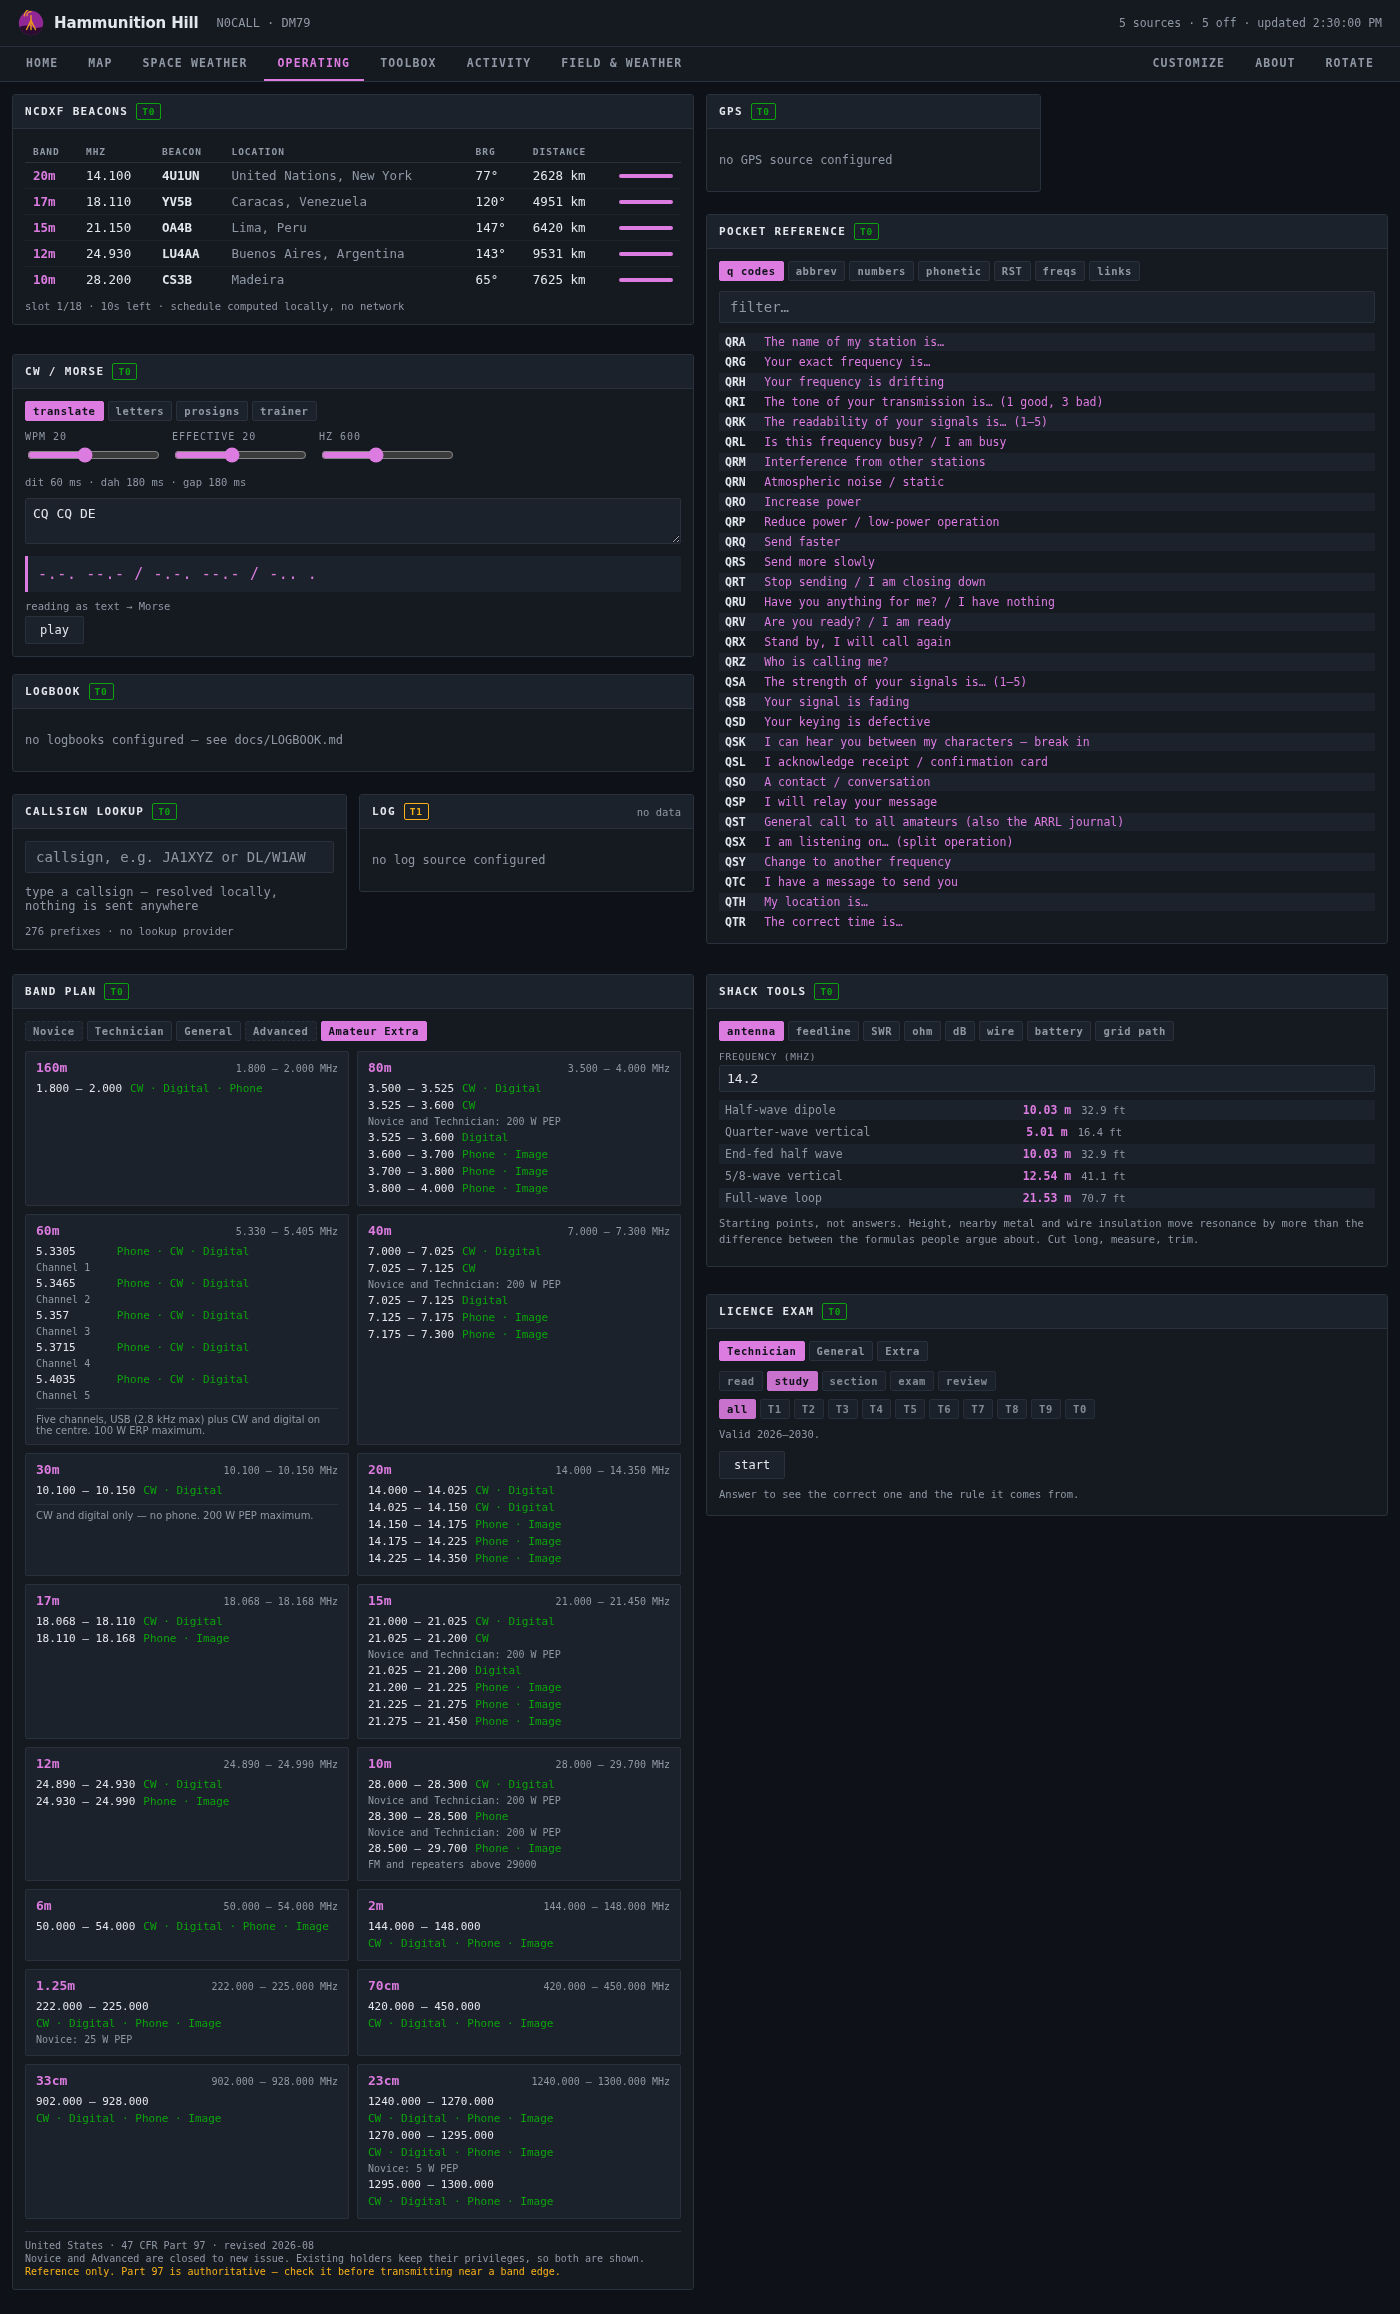
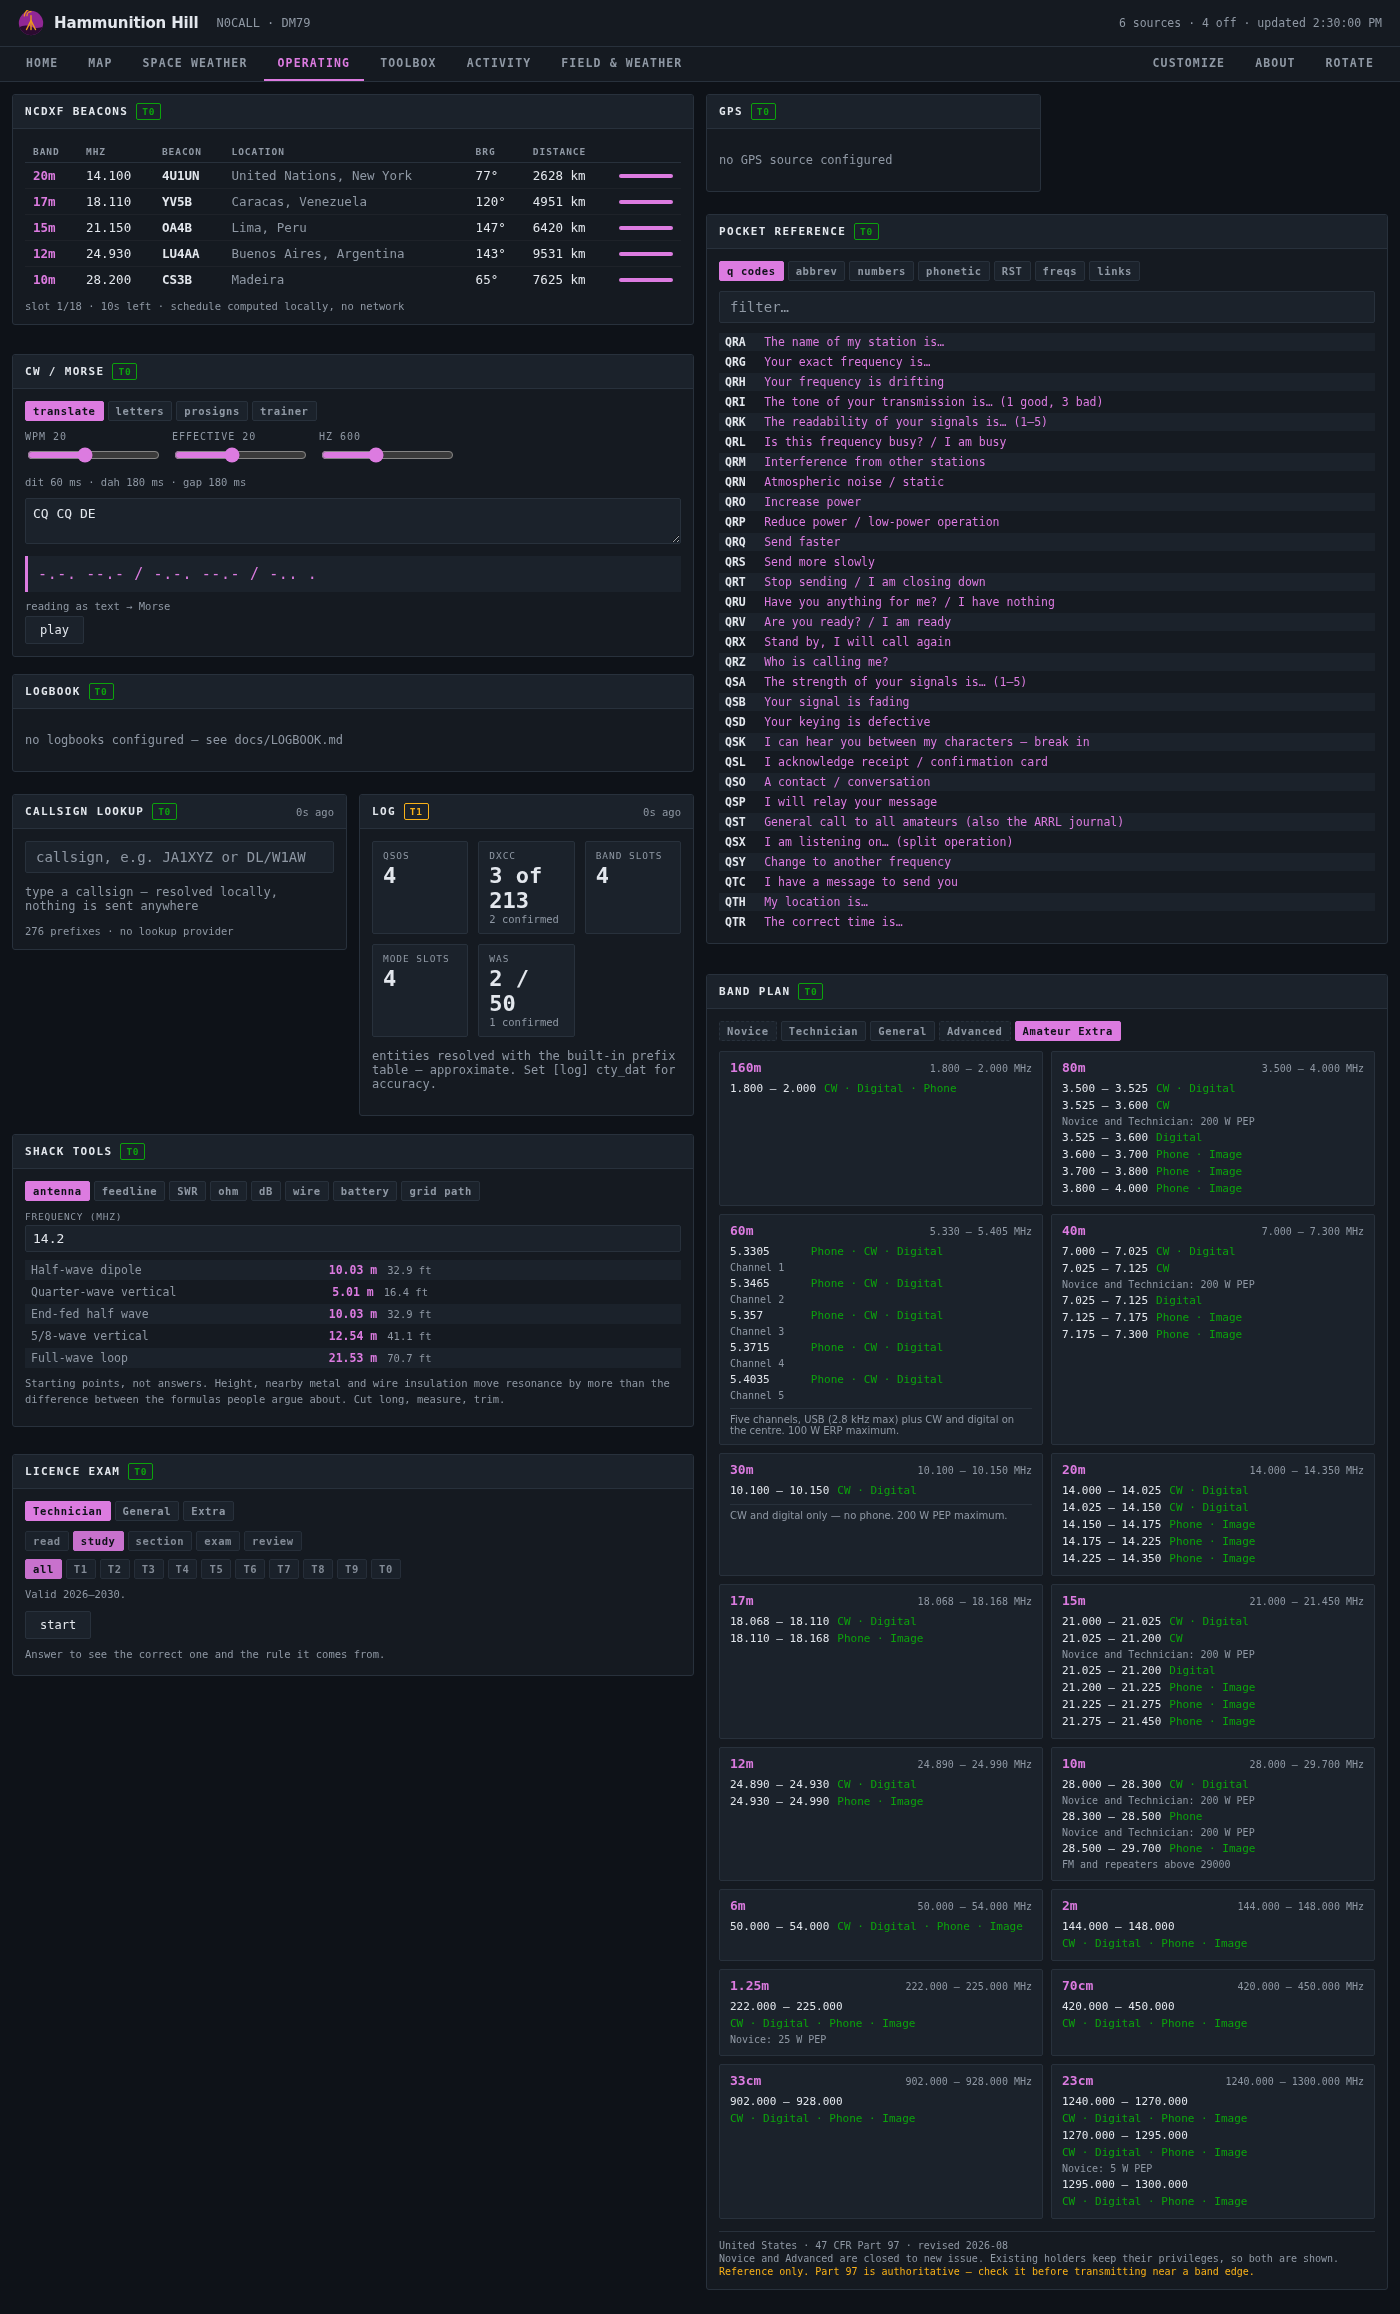
DXCC and WAS progress: the log gets a finish line
The log stats panel counted what was worked and stopped there. Progress
needs a denominator: DXCC now reads "147 of 340", where 340 is however
many entities the ACTIVE prefix table resolves -- published from the
snapshot, not a constant in the panel, so cty.dat and the built-in table
each report their own honest ceiling. WAS reads n / 50 with the
confirmed count, and once twelve or fewer states remain it names them,
because a short missing list is a plan and a long one is a wall.

STATE indexing rides on the log, not the prefix lookup -- a portable
call the table cannot place still worked Colorado if the log says so.
Only the fifty states count: the ADIF STATE field also carries VE
provinces and JA prefectures, and Ontario toward WAS would be
flattering and wrong (unit-tested, falsified). DC is deliberately
absent -- ARRL counts it as Maryland.

The render harness gains a four-QSO ADIF log, so the whole worked/
needed machinery runs in CI for the first time -- logstats had only
ever rendered "no log source configured" there, and needed-slot
colouring shipped untested. The driver demands WAS 2/50 (the log's CA +
CT, with Ontario present and not counting) and a DXCC denominator;
both falsified red.

diff --git a/web/panels/logstats/panel.js b/web/panels/logstats/panel.js
@@ -28,14 +28,38 @@ export function render(root, { data, el }) {
   }
 
   const grid = el("div", "readouts");
+  // "147 of 340" rather than a bare 147: progress needs a denominator, and
+  // the honest one is however many entities the active prefix table can
+  // resolve -- which is why it comes from the snapshot, not a constant here.
+  const dxcc = stats.entity_total
+    ? `${stats.entities} of ${stats.entity_total}`
+    : String(stats.entities);
   grid.append(
     readout(el, "QSOs", stats.qso_count.toLocaleString()),
-    readout(el, "Entities", stats.entities, `${stats.confirmed_entities} confirmed`),
+    readout(el, "DXCC", dxcc, `${stats.confirmed_entities} confirmed`),
     readout(el, "Band slots", stats.band_slots),
     readout(el, "Mode slots", stats.mode_slots),
   );
+  if (stats.states !== undefined) {
+    grid.append(
+      readout(
+        el,
+        "WAS",
+        `${stats.states} / 50`,
+        stats.states === 0
+          ? "no STATE fields seen in this log"
+          : `${stats.confirmed_states} confirmed`,
+      ),
+    );
+  }
 
   const parts = [grid];
+  // The finish line is the interesting part: name the missing states once the
+  // list is short enough to be a plan rather than a wall.
+  const missing = stats.states_missing ?? [];
+  if (stats.states > 0 && missing.length > 0 && missing.length <= 12) {
+    parts.push(el("p", "count", `WAS needs: ${missing.join(" ")}`));
+  }
   if (stats.prefix_source === "built-in") {
     parts.push(
       el("p", "empty", "entities resolved with the built-in prefix table — approximate. Set [log] cty_dat for accuracy."),

diff --git a/.github/scripts/render_check.py b/.github/scripts/render_check.py
@@ -762,6 +762,27 @@ const BASE = `http://127.0.0.1:${PORT}/`;
   await page.waitForTimeout(300);
   console.log(`  rotate: turned ${tabBefore} -> ${tabAfter}, then held ${tabParked} when off`);
 
+  // --- the log drives DXCC and WAS arithmetic ------------------------------
+  // The harness log holds CA (confirmed), CT, and Ontario -- so the WAS
+  // readout must say 2 / 50 with 1 confirmed, and Ontario counting would
+  // make it 3. The DXCC readout must carry a denominator from the prefix
+  // table, not a bare tally.
+  await page.click('#tabs button:text-is("Operating")');
+  await page.waitForTimeout(1000);
+  const logstats = await page.$eval(
+    '#grid .panel[data-panel="logstats"]', (e) => e.textContent);
+  if (!logstats.includes('2 / 50')) {
+    problems.push(
+      `logstats: WAS should read 2 / 50 from the harness log, got: ${logstats.slice(0, 160)}`,
+    );
+  }
+  if (!/of \d{3}/.test(logstats)) {
+    problems.push(`logstats: DXCC readout has no denominator: ${logstats.slice(0, 160)}`);
+  }
+  console.log('  logstats: WAS 2/50 and a DXCC denominator, from a real parsed log');
+  await page.click('#tabs button:text-is("Home")');
+  await page.waitForTimeout(400);
+
   // --- watch notifications fire, once, for the watched call ----------------
   // The cluster stub spotted G0ABC; the init script put G0ABC on the watch
   // list and recorded what Notification was asked to show. The page has been
@@ -900,6 +921,18 @@ def main() -> int:
     port = free_port()
     with TemporaryDirectory() as workdir:
         work = Path(workdir)
+        # A small ADIF log, so the worked/needed machinery runs in CI at all:
+        # without it the logstats panel only ever rendered "no log source
+        # configured" here, and needed-slot colouring shipped untested. Two
+        # states (one confirmed), one confirmed DXCC entity, one STATE=ON
+        # that must NOT count toward WAS.
+        (work / "log.adi").write_text(
+            "Harness log\n<EOH>\n"
+            "<CALL:5>G0ABC<BAND:3>20M<MODE:2>CW<QSL_RCVD:1>Y<EOR>\n"
+            "<CALL:4>W6BB<BAND:3>40M<MODE:3>FT8<STATE:2>CA<LOTW_QSL_RCVD:1>Y<EOR>\n"
+            "<CALL:5>K1ABC<BAND:3>20M<MODE:3>SSB<STATE:2>CT<EOR>\n"
+            "<CALL:5>VE3XY<BAND:3>15M<MODE:2>CW<STATE:2>ON<EOR>\n"
+        )
         (work / "config.toml").write_text(
             f"""
 [server]
@@ -942,6 +975,12 @@ kind = "dxcluster"
 url = "telnet://127.0.0.1:{cluster_port}"
 local = true
 options = {{ callsign = "N0CALL", flush_seconds = 1 }}
+
+[[sources]]
+id = "log"
+kind = "adif"
+path = "{work / "log.adi"}"
+interval = 60
 
 [[sources]]
 id = "solarflux"
@@ -1016,6 +1055,7 @@ options = {{ callsign = "N0CALL" }}
                 "propagation.json",
                 "rbn.json",
                 "cluster.json",
+                "log.json",
                 "pskreporter.json",
                 "wspr.json",
             ]

diff --git a/src/hammunition_hill/adif.py b/src/hammunition_hill/adif.py
@@ -37,7 +37,19 @@ _EOH = re.compile(r"<EOH>", re.IGNORECASE)
 _EOR = re.compile(r"<EOR>", re.IGNORECASE)
 
 # Fields we keep. An ADIF record can carry a hundred; we need five.
-_WANTED = frozenset({"CALL", "BAND", "MODE", "SUBMODE", "QSO_DATE", "QSL_RCVD", "LOTW_QSL_RCVD"})
+_WANTED = frozenset(
+    {"CALL", "BAND", "MODE", "SUBMODE", "QSO_DATE", "QSL_RCVD", "LOTW_QSL_RCVD", "STATE"}
+)
+
+# The fifty states, and only those: Worked All States is a US award, and the
+# ADIF STATE field also carries VE provinces and JA prefectures. Counting
+# Ontario toward WAS would be flattering and wrong. DC is deliberately
+# absent -- ARRL counts it as Maryland for WAS.
+US_STATES = frozenset(
+    "AL AK AZ AR CA CO CT DE FL GA HI ID IL IN IA KS KY LA ME MD MA MI MN MS "
+    "MO MT NE NV NH NJ NM NY NC ND OH OK OR PA RI SC SD TN TX UT VT VA WA WV "
+    "WI WY".split()
+)
 
 # Modes that count as the same slot for award purposes. An operator chasing
 # DXCC on "digital" does not care whether it was FT8 or RTTY, and one chasing
@@ -129,6 +141,8 @@ class LogIndex:
     entity_mode: set[tuple[str, str]] = field(default_factory=set)
     entity_band_mode: set[tuple[str, str, str]] = field(default_factory=set)
     confirmed_entities: set[str] = field(default_factory=set)
+    states: set[str] = field(default_factory=set)
+    confirmed_states: set[str] = field(default_factory=set)
     qso_count: int = 0
     unresolved: int = 0
 
@@ -194,6 +208,15 @@ def build_index(text: str, table: PrefixTable) -> LogIndex:
         if not call:
             continue
         index.qso_count += 1
+
+        # States are indexed before entity resolution on purpose: a portable
+        # call the prefix table cannot place still worked Colorado if the log
+        # says so, and WAS credit rides on the log, not on the lookup.
+        state = record.get("STATE", "").upper()
+        if state in US_STATES:
+            index.states.add(state)
+            if _is_confirmed(record):
+                index.confirmed_states.add(state)
 
         entity = table.lookup(call)
         if entity is None:

diff --git a/tests/test_adif.py b/tests/test_adif.py
@@ -4,7 +4,7 @@
 
 import pytest
 
-from hammunition_hill.adif import build_index, mode_group, normalize_band, parse_adif
+from hammunition_hill.adif import US_STATES, build_index, mode_group, normalize_band, parse_adif
 from hammunition_hill.prefix import PrefixTable
 
 LOG = """Generated by SomeLogger
@@ -166,3 +166,38 @@ def test_submode_takes_priority_over_mode(table):
     """Loggers write MODE=MFSK SUBMODE=FT4; the submode is the useful one."""
     index = build_index("<CALL:4>W1AW<BAND:3>20M<MODE:4>MFSK<SUBMODE:3>FT4<EOR>", table)
     assert ("United States", "DIGITAL") in index.entity_mode
+
+
+# --- Worked All States ---------------------------------------------------
+def test_states_are_indexed_from_the_state_field(table):
+    index = build_index(
+        "<CALL:4>W6BB<BAND:3>20M<STATE:2>CA<LOTW_QSL_RCVD:1>Y<EOR>"
+        "<CALL:5>K1ABC<BAND:3>40M<STATE:2>ct<EOR>",
+        table,
+    )
+    assert index.states == {"CA", "CT"}
+    assert index.confirmed_states == {"CA"}
+
+
+def test_a_canadian_province_does_not_count_toward_was(table):
+    """VE logs carry STATE=ON; Ontario toward WAS would be flattering and wrong."""
+    index = build_index("<CALL:5>VE3XY<BAND:3>20M<STATE:2>ON<EOR>", table)
+    assert index.states == set()
+
+
+def test_a_state_counts_even_when_the_call_does_not_resolve(table):
+    """WAS credit rides on the log, not on the prefix lookup."""
+    index = build_index("<CALL:5>!!!!!<BAND:3>20M<STATE:2>WY<EOR>", table)
+    assert index.unresolved == 1
+    assert index.states == {"WY"}
+
+
+def test_the_us_state_list_is_exactly_fifty():
+    """DC is deliberately absent -- ARRL counts it as Maryland for WAS."""
+    assert len(US_STATES) == 50
+    assert "DC" not in US_STATES
+
+
+def test_the_entity_denominator_is_plausible(table):
+    """A few hundred entities; a broken count reads 0 or tens of thousands."""
+    assert 200 < table.entity_count < 500

diff --git a/src/hammunition_hill/sources/local.py b/src/hammunition_hill/sources/local.py
@@ -18,7 +18,7 @@ import logging
 from pathlib import Path
 from typing import Any, Protocol
 
-from ..adif import load_index
+from ..adif import US_STATES, load_index
 from ..config import SourceConfig
 from ..enrich import Enricher
 
@@ -62,6 +62,10 @@ class AdifLogSource:
             "band_slots": len(index.entity_band),
             "mode_slots": len(index.entity_mode),
             "unresolved": index.unresolved,
+            "states": len(index.states),
+            "confirmed_states": len(index.confirmed_states),
+            "states_missing": sorted(US_STATES - index.states),
+            "entity_total": enricher.table.entity_count,
             "prefix_source": "cty.dat" if not enricher.table.approximate else "built-in",
             "worked": index.worked_summary(),
         }

diff --git a/src/hammunition_hill/prefix.py b/src/hammunition_hill/prefix.py
@@ -281,6 +281,15 @@ class PrefixTable:
     def approximate(self) -> bool:
         return self._source == "builtin"
 
+    @property
+    def entity_count(self) -> int:
+        """Distinct entities this table can resolve to -- the DXCC denominator.
+
+        Approximate by construction with the built-in table, exact-ish with
+        cty.dat; either way it is the honest ceiling for "worked N of M".
+        """
+        return len({entity.name for _, entity in self._prefixes})
+
     def _load_builtin(self) -> None:
         self._prefixes = [
             (

diff --git a/docs/STATUS.md b/docs/STATUS.md
@@ -111,6 +111,7 @@ Ten are **tier 0** — they work with the internet unplugged: `bandplan`,
 | Feature | Status | Notes |
 |---|---|---|
 | Rotatable globe with greyline | ✅ | Orthographic projection on 2D canvas. No WebGL, no library. A 2D equirectangular mode shares the same projection dispatch |
+| DXCC and WAS progress | ✅ | Log stats reads "147 of 340" with the active prefix table as the denominator, and WAS n/50 with confirmed count and the missing states named once ≤12 remain. STATE indexing rides on the log, not the prefix lookup; VE provinces do not count |
 | Watch notifications | ✅ | A watch list in the spots panel; a system notification when a watched call is spotted (cluster, WSJT-X, POTA/SOTA) or the propagation indicator flips a band open. Browser-local, permission asked behind a click, checks only what the visible dashboard already fetches. Needs https or localhost, same as geolocation, and says so |
 | Kiosk rotation | ✅ | "rotate" in the tab bar cycles dashboards (45s default, `hh.rotate.seconds` in localStorage to change); any touch pauses it for one interval. For the wall display |
 | Browser-side callsign | ✅ | Click the header to set the callsign shown on that display; offered outright when config has none. Presentation only — what the collector sends stays config.toml, because there is no write endpoint |

diff --git a/README.md b/README.md
@@ -61,6 +61,7 @@ finished, so here is exactly where things stand:
 | Space weather dials | ✅ 8 scales |
 | Map — 3D globe / 2D flat, greyline, spots, aurora, path plotting | ✅ working |
 | Watch notifications — watched calls and band openings | ✅ working |
+| DXCC and WAS progress from your ADIF log | ✅ working |
 | Band globes — one sphere per active band, hamdash style | ✅ working |
 | Your log driving spot colouring | ✅ working |
 | DX cluster, WSJT-X, `rigctld` | ✅ working |
